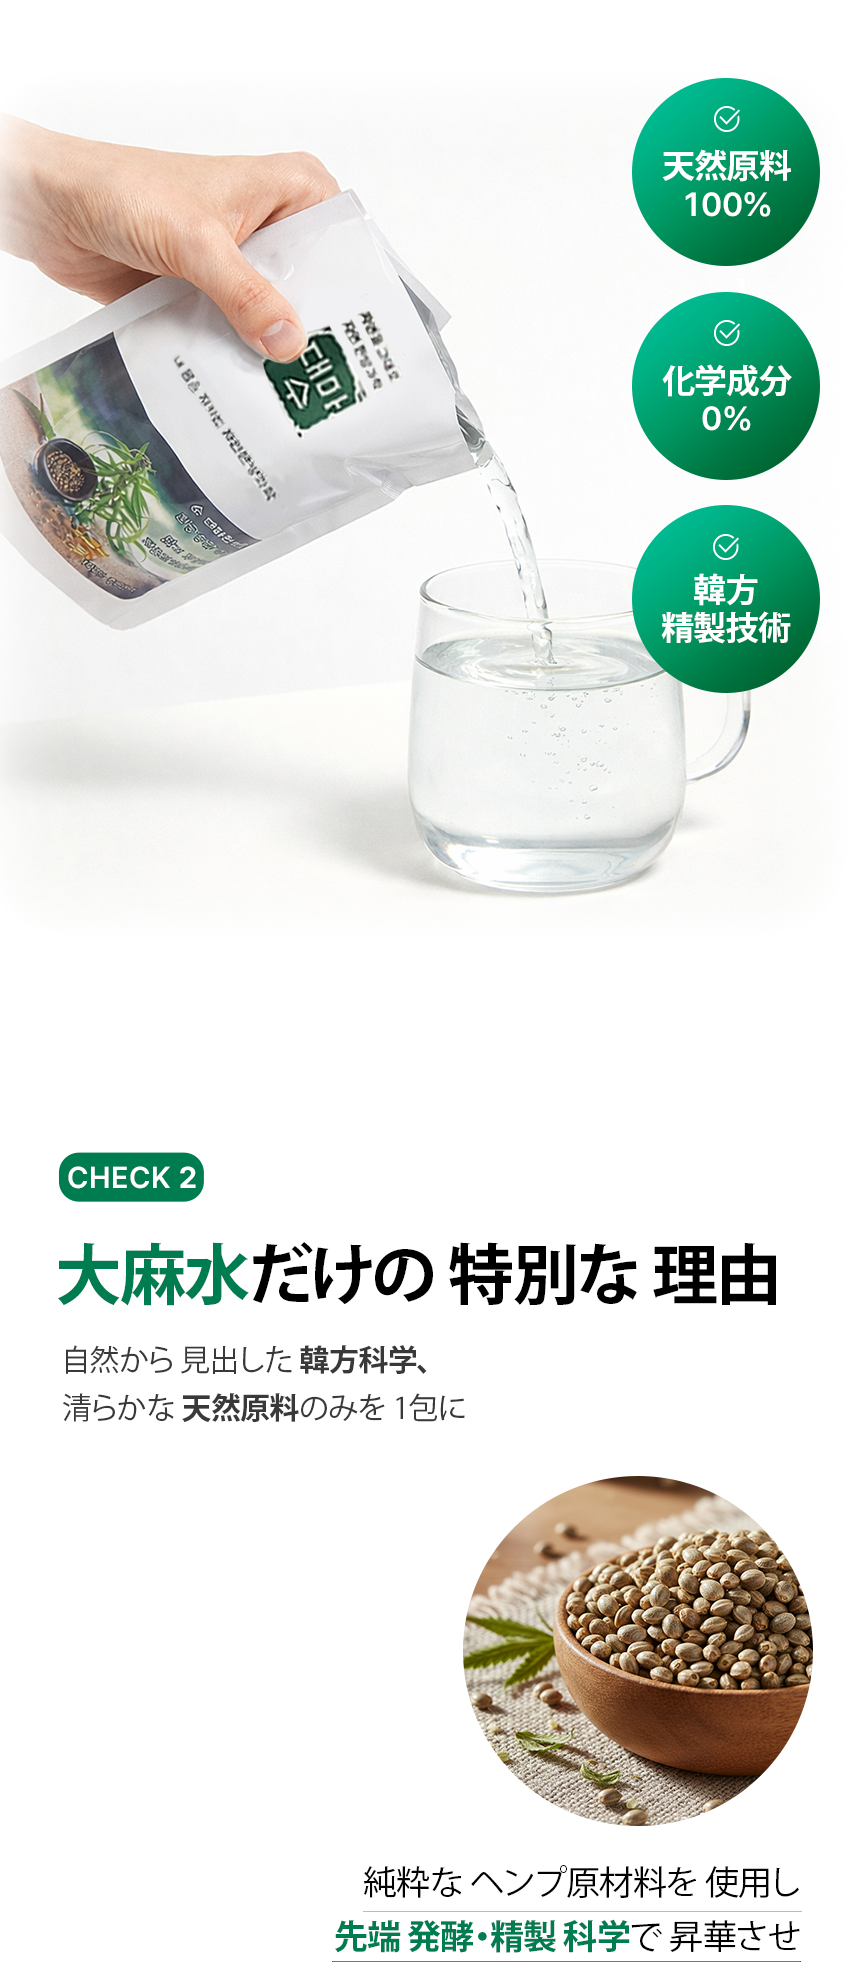
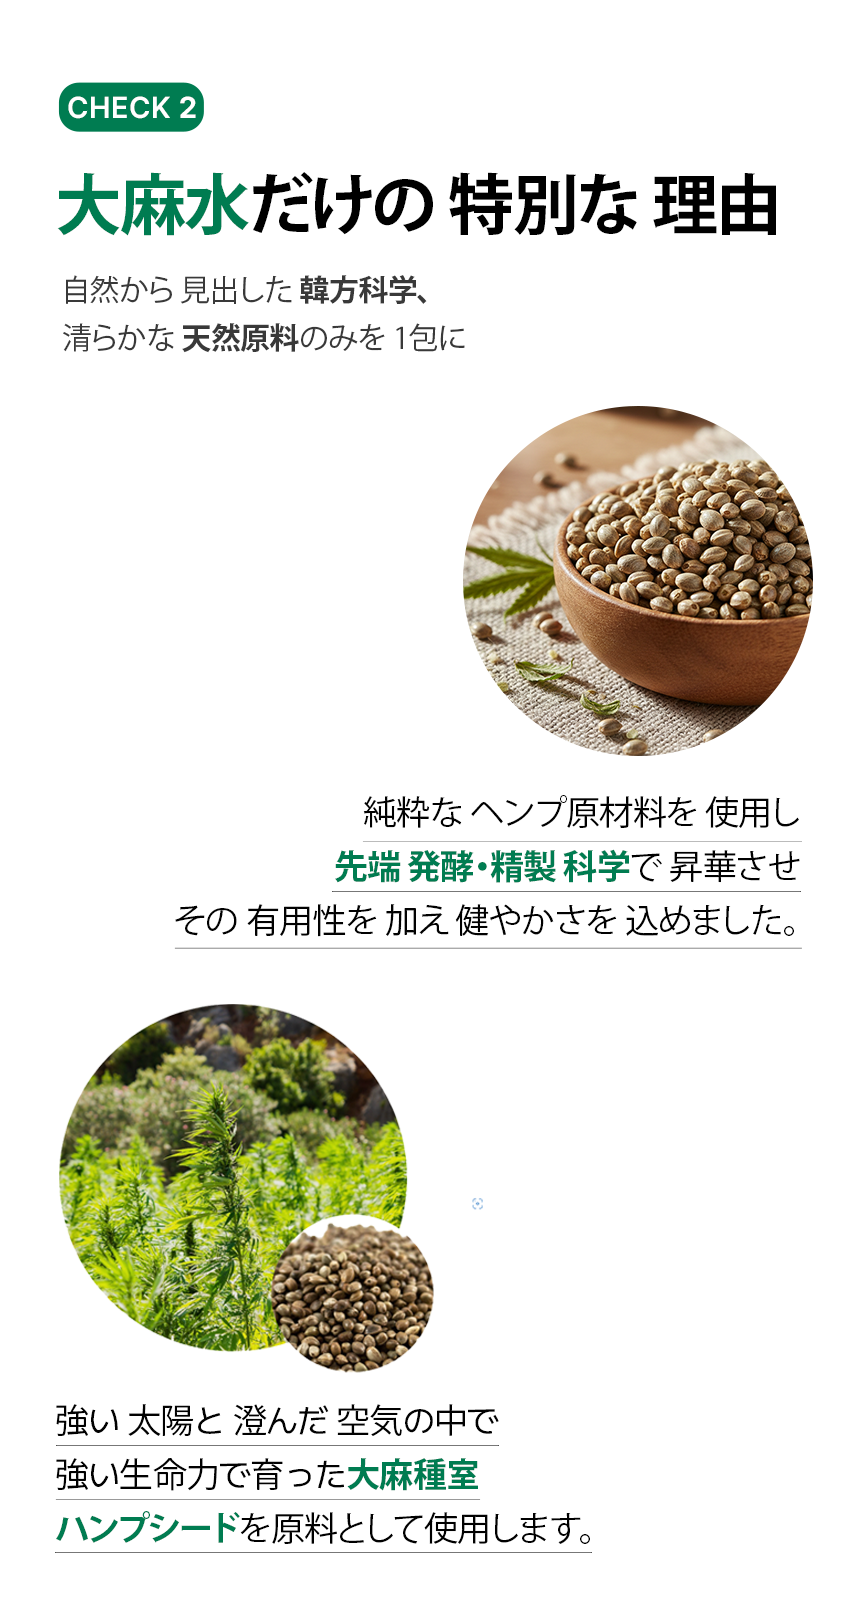
Re-split detail images with accurate section boundaries
CHECK 1, CHECK 2, WHY nav links now scroll to correct positions.

diff --git a/jp.html b/jp.html
@@ -66,25 +66,25 @@
         <img src="대마수 대표이미지/대마수 네이버스토어 메인이미지-20260310-1.1.png" alt="大麻水 代表イメージ">
     </section>
     <section id="medical" class="img-section">
-        <img src="대마수 상세페이지/jp-medical.png?v=3" alt="大麻水 詳細ページ">
+        <img src="대마수 상세페이지/jp-medical.png?v=4" alt="大麻水 詳細ページ">
     </section>
     <section id="product" class="img-section">
-        <img src="대마수 상세페이지/jp-product.png?v=3" alt="大麻水 詳細ページ">
+        <img src="대마수 상세페이지/jp-product.png?v=4" alt="大麻水 詳細ページ">
     </section>
     <section id="check1" class="img-section">
-        <img src="대마수 상세페이지/jp-check1.png?v=3" alt="大麻水 詳細ページ">
+        <img src="대마수 상세페이지/jp-check1.png?v=4" alt="大麻水 詳細ページ">
     </section>
     <section id="check2" class="img-section">
-        <img src="대마수 상세페이지/jp-check2.png?v=3" alt="大麻水 詳細ページ">
+        <img src="대마수 상세페이지/jp-check2.png?v=4" alt="大麻水 詳細ページ">
     </section>
     <section id="why" class="img-section">
-        <img src="대마수 상세페이지/jp-why.png?v=3" alt="大麻水 詳細ページ">
+        <img src="대마수 상세페이지/jp-why.png?v=4" alt="大麻水 詳細ページ">
     </section>
     <section id="who" class="img-section">
-        <img src="대마수 상세페이지/jp-who.png?v=3" alt="大麻水 詳細ページ">
+        <img src="대마수 상세페이지/jp-who.png?v=4" alt="大麻水 詳細ページ">
     </section>
     <section id="method" class="img-section">
-        <img src="대마수 상세페이지/jp-method.png?v=3" alt="大麻水 詳細ページ">
+        <img src="대마수 상세페이지/jp-method.png?v=4" alt="大麻水 詳細ページ">
     </section>
     <footer>
         <p>LOA Inc. | 露芽<br>&copy; 2026 LOA. All Rights Reserved.</p>

diff --git a/index.html b/index.html
@@ -66,25 +66,25 @@
         <img src="대마수 대표이미지/대마수 네이버스토어 메인이미지-20260310-1.1.png" alt="대마수 대표이미지">
     </section>
     <section id="medical" class="img-section">
-        <img src="대마수 상세페이지/kr-medical.png?v=3" alt="대마수 상세페이지">
+        <img src="대마수 상세페이지/kr-medical.png?v=4" alt="대마수 상세페이지">
     </section>
     <section id="product" class="img-section">
-        <img src="대마수 상세페이지/kr-product.png?v=3" alt="대마수 상세페이지">
+        <img src="대마수 상세페이지/kr-product.png?v=4" alt="대마수 상세페이지">
     </section>
     <section id="check1" class="img-section">
-        <img src="대마수 상세페이지/kr-check1.png?v=3" alt="대마수 상세페이지">
+        <img src="대마수 상세페이지/kr-check1.png?v=4" alt="대마수 상세페이지">
     </section>
     <section id="check2" class="img-section">
-        <img src="대마수 상세페이지/kr-check2.png?v=3" alt="대마수 상세페이지">
+        <img src="대마수 상세페이지/kr-check2.png?v=4" alt="대마수 상세페이지">
     </section>
     <section id="why" class="img-section">
-        <img src="대마수 상세페이지/kr-why.png?v=3" alt="대마수 상세페이지">
+        <img src="대마수 상세페이지/kr-why.png?v=4" alt="대마수 상세페이지">
     </section>
     <section id="who" class="img-section">
-        <img src="대마수 상세페이지/kr-who.png?v=3" alt="대마수 상세페이지">
+        <img src="대마수 상세페이지/kr-who.png?v=4" alt="대마수 상세페이지">
     </section>
     <section id="method" class="img-section">
-        <img src="대마수 상세페이지/kr-method.png?v=3" alt="대마수 상세페이지">
+        <img src="대마수 상세페이지/kr-method.png?v=4" alt="대마수 상세페이지">
     </section>
     <footer>
         <p>LOA Inc. | 露芽<br>&copy; 2026 LOA. All Rights Reserved.</p>
